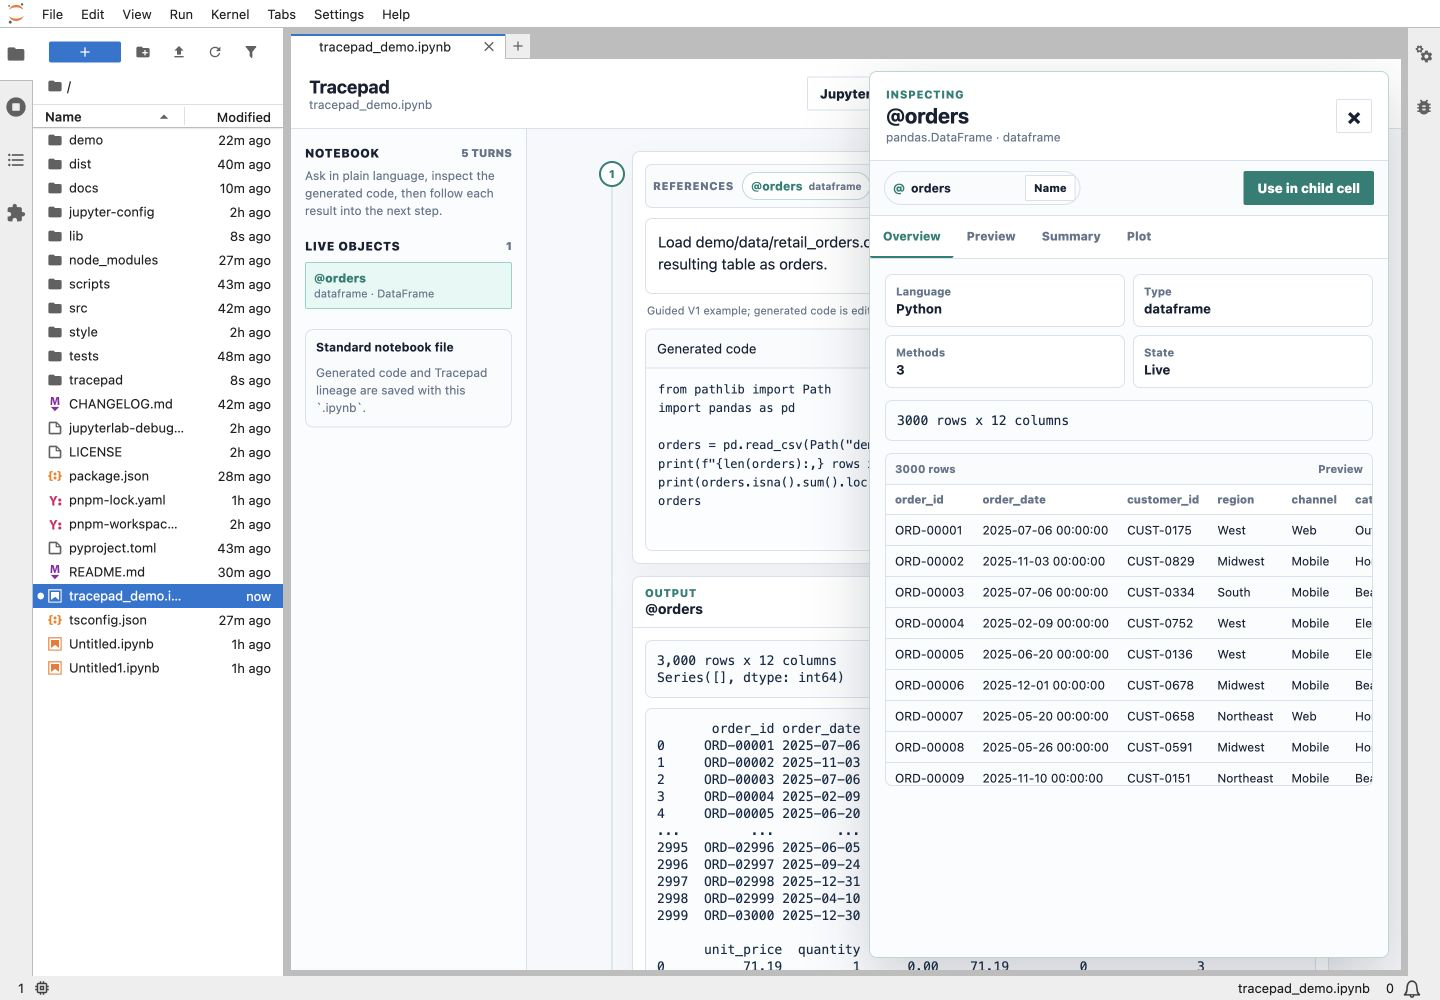
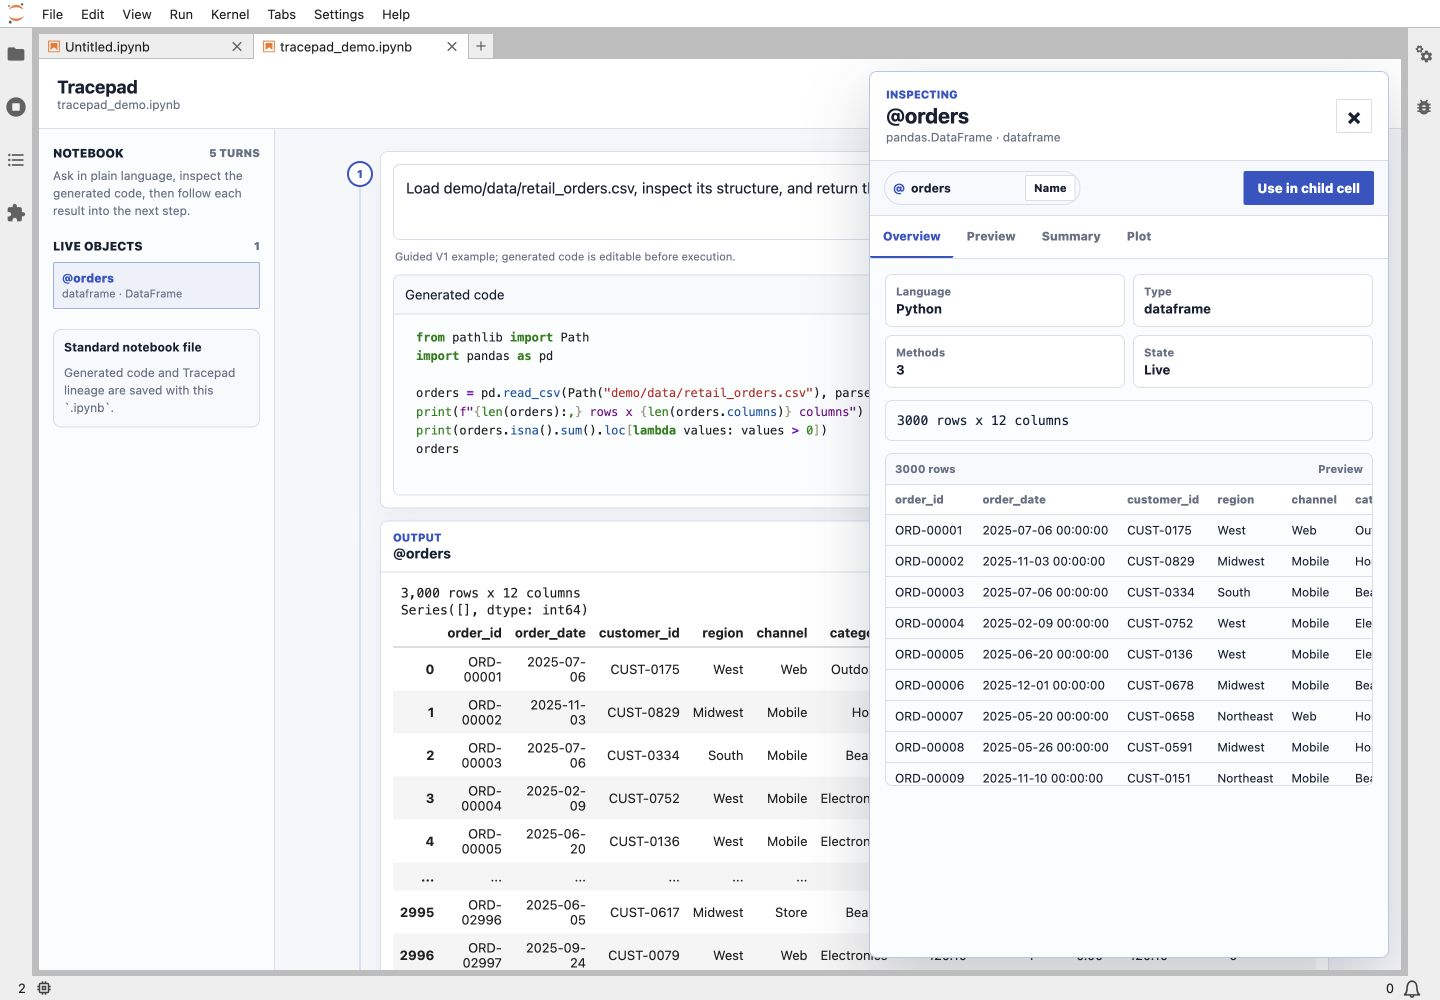
Refresh README screenshots

diff --git a/README.md b/README.md
@@ -107,6 +107,8 @@ OpenAI-compatible endpoint. Tracepad also reads
 The VS Code host uses the native Notebook API rather than a custom webview.
 Build the private VSIX from the repository:
 
+![A Tracepad AI prompt followed by generated Python and native table output in VS Code](docs/images/tracepad-vscode-notebook.png)
+
 ```bash
 corepack enable
 pnpm install
